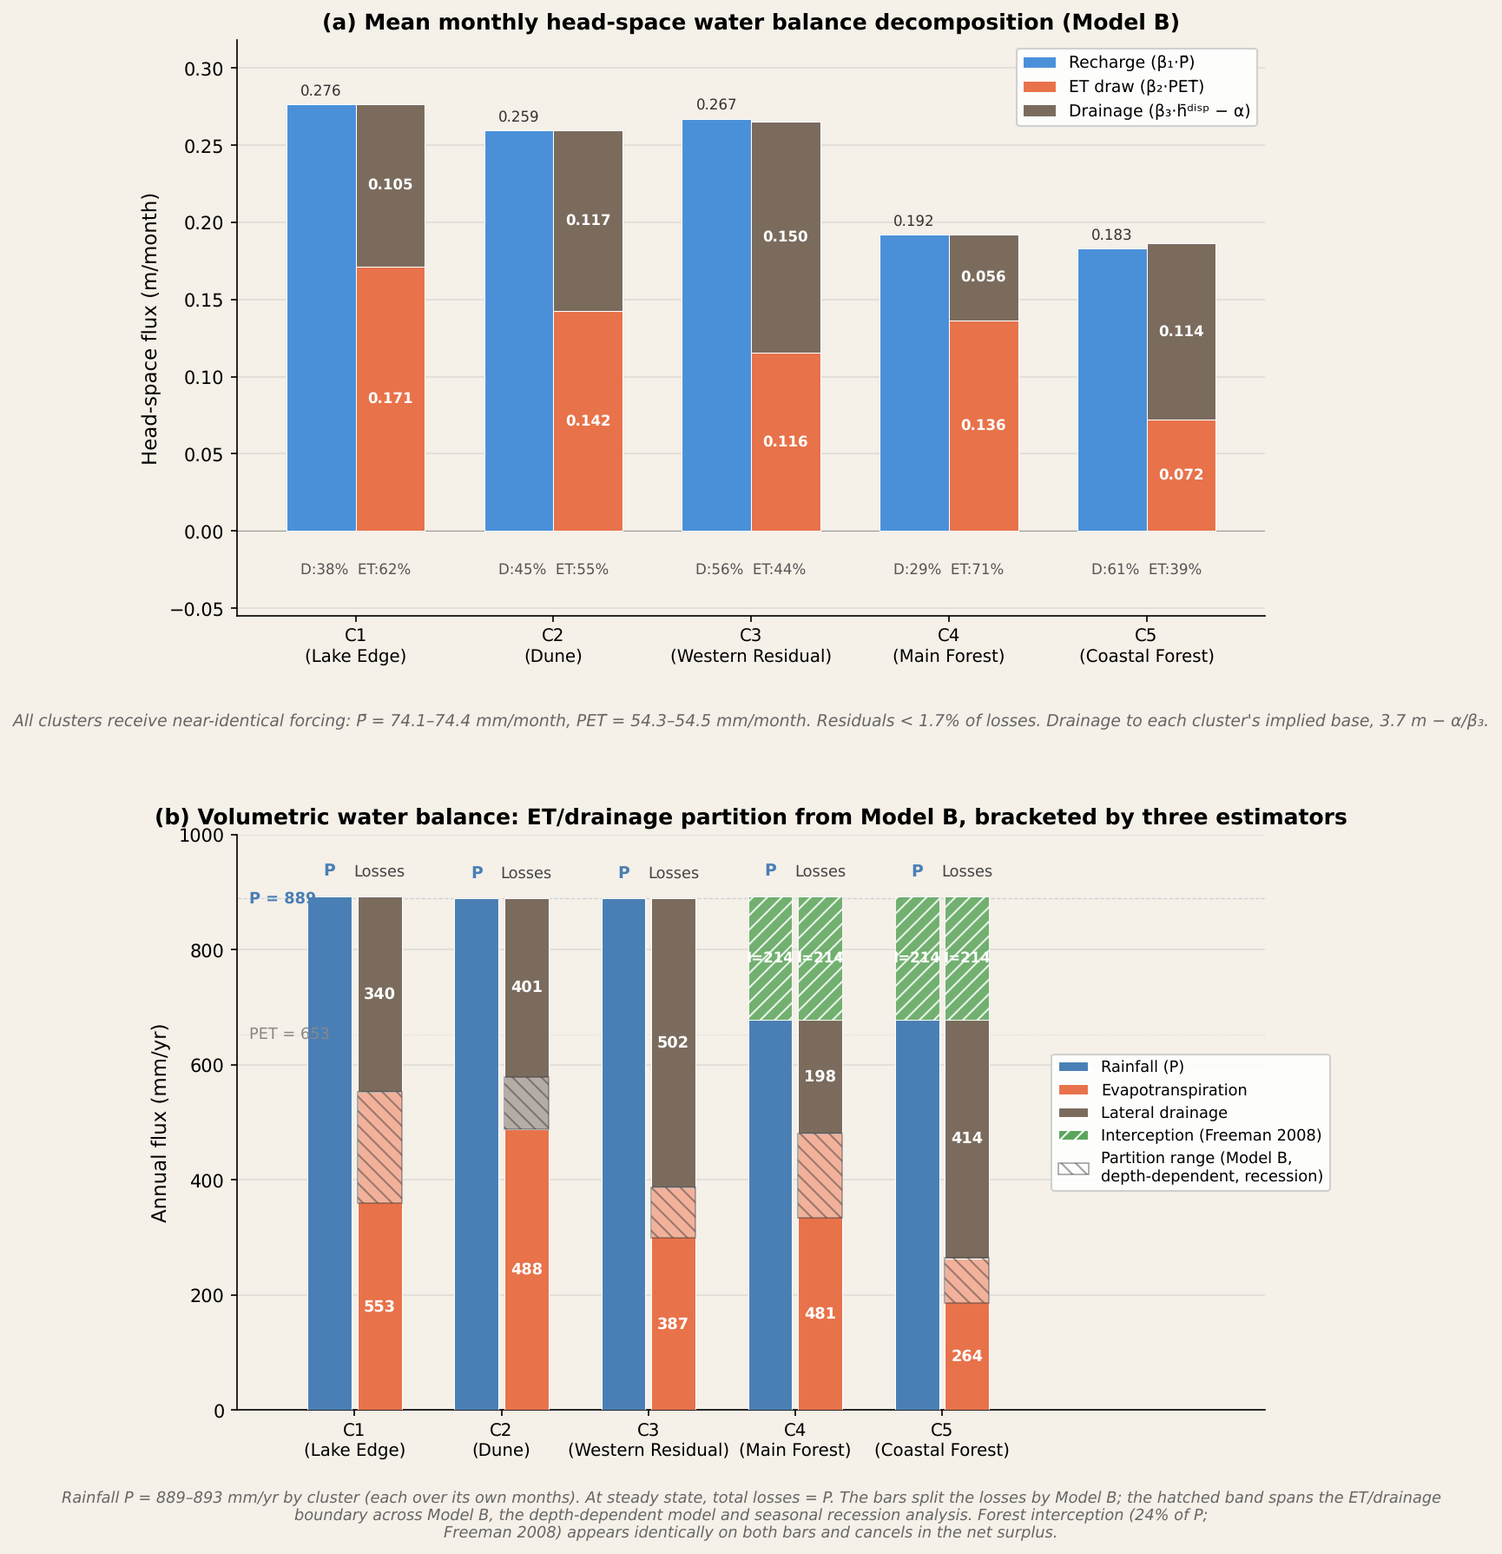
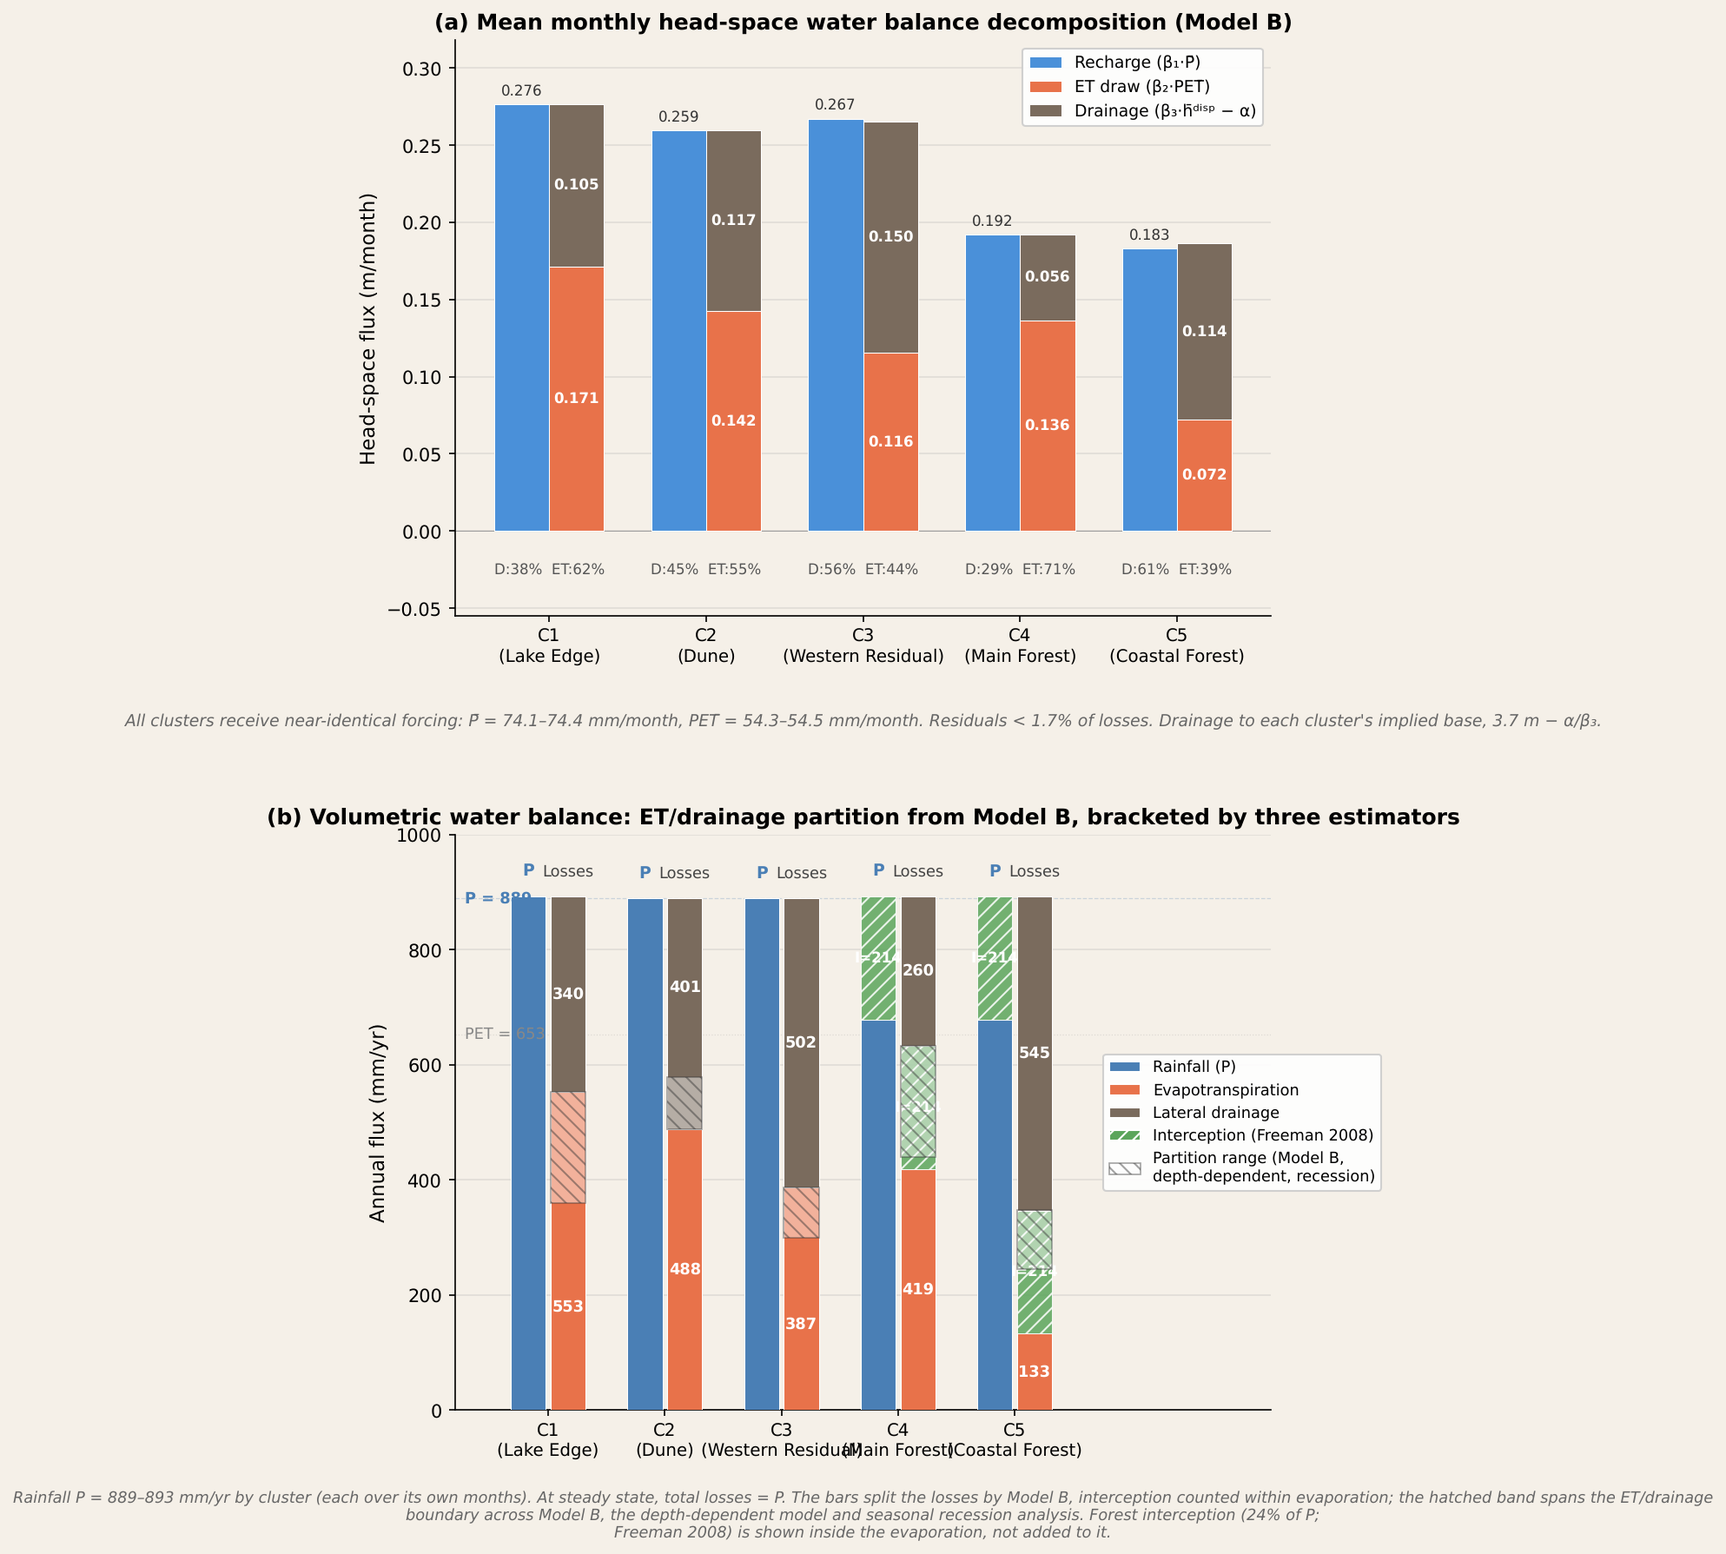
T-213: Script 16 1.15.0 - interception no longer counted twice
Martin 2026-11-17 (review Q3): the SSM is fitted on gross rainfall and above-canopy
PET, so beta_2*PET already carries the canopy's interception loss. The volumetric
split now applies to gross rainfall: drainage = P*df, total evaporation = P*(1-df)
with interception inside it, ET after interception = total - I. C4 total
evaporation 633 mm/yr (0.97 x PET; was 695, 1.06), drainage 260 mm/yr (was 198);
C5 347 / 545 mm/yr. Figure 11b/8b stacks ET, interception, drainage. Script 16 run
on its own; site-observation row left at the last pipeline run.

Claude-Session: https://claude.ai/code/session_0121bgnCsTMi9KH3649kM96F

diff --git a/src/16_water_bal.py b/src/16_water_bal.py
@@ -79,12 +79,18 @@ References:
       for water table depths. WRR 36(1), 181–188.
 """
 
-__version__ = "1.14.0"  # Hollingham (2026) - 2026-11-17 (D-334, T-213; Martin: "drop the Model A column", "do it now").
+__version__ = "1.15.0"  # Hollingham (2026) - 2026-11-17 (T-213 review Q3; Martin: "Fix Script 16"). The SSM is fitted on
+#   gross rainfall and above-canopy PET, so beta_2*PET already carries the canopy's interception loss. The volumetric
+#   split now applies to GROSS rainfall: Drain = P*df, ET_total = P*(1-df) with interception inside it, ET (after
+#   interception) = ET_total - I. Until 1.14.0 the split was applied to P_net and I added on top, counting the canopy
+#   loss twice (C4 total evaporation 695 mm/yr, 1.06 x PET; now 633 mm/yr, 0.97 x PET). Figure panel (b) stacks
+#   ET, I, drainage. Column and key names unchanged.
+__version_prev__ = "1.14.0"  # Hollingham (2026) - 2026-11-17 (D-334, T-213; Martin: "drop the Model A column", "do it now").
 #   The partition range (Lo/Hi_drain_frac, Spread_pp, the report keys *_lo/_hi, the hatched band of Figure 11b) spans
 #   Model B, the depth-dependent model and the recession ratio; Model A's fraction stays in SSM_drain_frac and the
 #   *_A_pct keys as the robustness record but no longer widens the range. The figure drops the Model A datum bracket;
 #   the recession table keeps its datum columns. Table 5 (table_configs) now shows the Model B columns.
-__version_prev__ = "1.13.0"  # Hollingham (2026) - 2026-11-12 (D-332, J-9 phase 2b). Script 03 1.31.0 writes Model B in
+# 1.13.0  # Hollingham (2026) - 2026-11-12 (D-332, J-9 phase 2b). Script 03 1.31.0 writes Model B in
 #   03_03's headline columns, so the Model A bracket now reads the *_model_a columns (beta_*_model_a, LCSC_percent_model_a;
 #   values unchanged) and Model B, the headline, is read from 03_03 itself (alpha, beta_*, implied_datum_m) in place of
 #   03_16 (the same centroid fit): its drainage is beta_3 * (h + implied_datum_m) = beta_3 * (DRAINAGE_DATUM + h) - alpha,
@@ -545,6 +551,12 @@ def save_volumetric_table(summary, recession, path, site_P_m, site_PET_m, ddp=No
         # (until 1.11.0 the midpoint of Model A and the recession ratio, and the range between them)
         pe = partition_estimates(s, r, (ddp or {}).get(cid, np.nan))
         df_mid, df_lo, df_hi = pe["mid"], pe["lo"], pe["hi"]
+        # 1.15.0 (Martin 2026-11-17, review Q3): the SSM is fitted on gross rainfall and above-canopy PET, so
+        # beta_2*PET already carries the canopy's interception loss (Paper 1 SI S9.2). The split therefore
+        # applies to GROSS rainfall: drainage = P*df, total evaporation = P*(1-df), and interception is a part
+        # of that total, not an addition to it. Until 1.14.0 the split was applied to P_net and I added on top,
+        # which counted the canopy loss twice (C4 total evaporation 1.06 x PET).
+        Pg = P_annual
 
         rows.append({
             "Cluster": cid,
@@ -563,21 +575,21 @@ def save_volumetric_table(summary, recession, path, site_P_m, site_PET_m, ddp=No
             "Mid_drain_frac": df_mid,
             "Lo_drain_frac": df_lo,
             "Hi_drain_frac": df_hi,
-            "ET_mid_mm_yr": P_net * (1 - df_mid),
-            "ET_lo_mm_yr": P_net * (1 - df_hi),
-            "ET_hi_mm_yr": P_net * (1 - df_lo),
-            "Drain_mid_mm_yr": P_net * df_mid,
-            "Drain_lo_mm_yr": P_net * df_lo,
-            "Drain_hi_mm_yr": P_net * df_hi,
-            # 1.10.0: interception is itself evaporation, so a forest's whole loss is I + ET
-            "ET_total_mid_mm_yr": I_val + P_net * (1 - df_mid),
-            "ET_total_lo_mm_yr": I_val + P_net * (1 - df_hi),
-            "ET_total_hi_mm_yr": I_val + P_net * (1 - df_lo),
+            # ET = evaporation after interception (from throughfall and the water table); ET_total = I + ET
+            "ET_mid_mm_yr": Pg * (1 - df_mid) - I_val,
+            "ET_lo_mm_yr": Pg * (1 - df_hi) - I_val,
+            "ET_hi_mm_yr": Pg * (1 - df_lo) - I_val,
+            "Drain_mid_mm_yr": Pg * df_mid,
+            "Drain_lo_mm_yr": Pg * df_lo,
+            "Drain_hi_mm_yr": Pg * df_hi,
+            "ET_total_mid_mm_yr": Pg * (1 - df_mid),
+            "ET_total_lo_mm_yr": Pg * (1 - df_hi),
+            "ET_total_hi_mm_yr": Pg * (1 - df_lo),
             # 1.11.0: the third estimator, additive - not in Mid/lo/hi
             "DDP_drain_frac": (ddp or {}).get(cid, np.nan),
             "DDP_ET_frac": 1.0 - (ddp or {}).get(cid, np.nan),
-            "DDP_drain_mm_yr": P_net * (ddp or {}).get(cid, np.nan),
-            "DDP_ET_mm_yr": P_net * (1.0 - (ddp or {}).get(cid, np.nan)),
+            "DDP_drain_mm_yr": Pg * (ddp or {}).get(cid, np.nan),
+            "DDP_ET_mm_yr": Pg * (1.0 - (ddp or {}).get(cid, np.nan)),
         })
 
     pd.DataFrame(rows).to_csv(path, index=False, float_format="%.4f")   # 1.12.0: fractions need more than 1 dp
@@ -804,10 +816,12 @@ def make_figure(summary, recession, site_P_m, site_PET_m, ms=True, datum_range=N
         pe = partition_estimates(summary[cid], recession.get(cid, {}), (ddp or {}).get(cid, np.nan))
         df_lo, df_hi, df_mid = pe["lo"], pe["hi"], pe["mid"]
 
-        et_mid    = P_net * (1 - df_mid)
-        drain_mid = P_net * df_mid
-        et_lo     = P_net * (1 - df_hi)    # boundary lowest (most drainage)
-        et_hi     = P_net * (1 - df_lo)    # boundary highest (most ET)
+        # 1.15.0: the split is of GROSS rainfall; the loss bar stacks ET after interception, then
+        # interception (part of the evaporation), then drainage, and sums to P
+        et_mid    = P_annual * (1 - df_mid) - I_val      # evaporation after interception
+        drain_mid = P_annual * df_mid
+        et_lo     = P_annual * (1 - df_hi)    # ET/drainage boundary, lowest (most drainage)
+        et_hi     = P_annual * (1 - df_lo)    # boundary highest (most ET)
 
         x_p = i - width_p/2 - gap/2
         x_l = i + width_loss/2 + gap/2
@@ -822,18 +836,18 @@ def make_figure(summary, recession, site_P_m, site_PET_m, ms=True, datum_range=N
                     linewidth=0.5, zorder=3,
                     hatch=H_INTCP if BW_MODE else '///', alpha=0.85)
 
-        # LOSS bar: ET (bottom) + Drainage (top) + Interception (top)
+        # LOSS bar: ET after interception (bottom) + interception + drainage (top) = P
         ax2.bar(x_l, et_mid, width_loss, color=C_ET,
                 edgecolor="black" if BW_MODE else "white",
                 linewidth=0.5, zorder=3, hatch=H_ET)
-        ax2.bar(x_l, drain_mid, width_loss, bottom=et_mid, color=C_DRAIN,
-                edgecolor="black" if BW_MODE else "white",
-                linewidth=0.5, zorder=3, hatch=H_DRAIN)
         if is_forest:
-            ax2.bar(x_l, I_val, width_loss, bottom=P_net, color=C_INTCP,
+            ax2.bar(x_l, I_val, width_loss, bottom=et_mid, color=C_INTCP,
                     edgecolor="black" if BW_MODE else "white",
                     linewidth=0.5, zorder=3,
                     hatch=H_INTCP if BW_MODE else '///', alpha=0.85)
+        ax2.bar(x_l, drain_mid, width_loss, bottom=et_mid + I_val, color=C_DRAIN,
+                edgecolor="black" if BW_MODE else "white",
+                linewidth=0.5, zorder=3, hatch=H_DRAIN)
 
         # Uncertainty band: hatched rectangle at ET/drainage boundary
         band_bottom = et_lo
@@ -858,25 +872,25 @@ def make_figure(summary, recession, site_P_m, site_PET_m, ms=True, datum_range=N
             ax2.plot([xb - 0.02, xb + 0.02], [y_b, y_b], color="black", lw=1.1, zorder=6)
 
         # Value labels
-        et_label_y = et_lo / 2 if et_lo > 100 else et_mid / 2
+        et_label_y = min(et_mid, et_lo) / 2 if min(et_mid, et_lo) > 100 else et_mid / 2
         if et_mid > 120:
             ax2.text(x_l, et_label_y, f'{et_mid:.0f}', ha='center', va='center',
                      fontsize=8.5, color='white', fontweight='bold', zorder=5)
-        drain_label_y = (et_hi + (P_net - et_hi) / 2 if (P_net - et_hi) > 100
-                         else et_mid + drain_mid / 2)
+        drain_label_y = (et_hi + (P_annual - et_hi) / 2 if (P_annual - et_hi) > 100
+                         else et_mid + I_val + drain_mid / 2)
         if drain_mid > 120:
             ax2.text(x_l, drain_label_y, f'{drain_mid:.0f}', ha='center',
                      va='center', fontsize=8.5, color='white', fontweight='bold',
                      zorder=5)
         elif drain_mid > 50:
-            ax2.text(x_l, et_mid + drain_mid/2, f'{drain_mid:.0f}', ha='center',
+            ax2.text(x_l, et_mid + I_val + drain_mid/2, f'{drain_mid:.0f}', ha='center',
                      va='center', fontsize=8, color='white', zorder=5)
 
         # Interception labels
         if is_forest:
             ax2.text(x_p, P_net + I_val/2, f'I={I_val:.0f}', ha='center',
                      va='center', fontsize=8, color='white', fontweight='bold')
-            ax2.text(x_l, P_net + I_val/2, f'I={I_val:.0f}', ha='center',
+            ax2.text(x_l, et_mid + I_val/2, f'I={I_val:.0f}', ha='center',
                      va='center', fontsize=8, color='white', fontweight='bold')
 
         # Column headers
@@ -930,10 +944,10 @@ def make_figure(summary, recession, site_P_m, site_PET_m, ms=True, datum_range=N
     ax2.text(0.5, -0.14,
              f"Rainfall P = {min(P_by_cid.values()):.0f}–{max(P_by_cid.values()):.0f} mm/yr by cluster "
              f"(each over its own months). At steady state, "
-             f"total losses = P. The bars split the losses by Model B; the hatched band spans the ET/drainage\nboundary "
+             f"total losses = P. The bars split the losses by Model B, interception counted within evaporation; the hatched band spans the ET/drainage\nboundary "
              f"across Model B, the depth-dependent model and seasonal recession analysis. "
              f"Forest interception ({I_pct}% of P;\nFreeman 2008) "
-             f"appears identically on both bars and cancels in the net surplus.",
+             f"is shown inside the evaporation, not added to it.",
              transform=ax2.transAxes, ha='center', va='top', fontsize=8.5,
              color='#666', style='italic')
 
@@ -1004,7 +1018,7 @@ def save_report_numbers(summary, path, recession=None, ddp=None, excluded_datum=
            note=f"Model A at DRAINAGE_DATUM: largest per-cluster residual as a share of total losses ({worst_a[0]})")
     # 1.12.0 (D-283): the partition as quoted. Model B's drainage share of the modelled loss is the
     # headline; the range spans Model A, Model B, the depth-dependent model and the recession ratio.
-    # Volumes are on the rain left after interception (FOREST_INTERCEPTION of P at C4, C5), as Table 7.
+    # 1.15.0: volumes split GROSS rainfall; interception (FOREST_INTERCEPTION of P at C4, C5) is part of the evaporation.
     recession = recession or {}
     for cid in sorted(summary.keys()):
         s = summary[cid]
@@ -1020,22 +1034,22 @@ def save_report_numbers(summary, path, recession=None, ddp=None, excluded_datum=
             ("water_balance_et_share_pct", 100 * (1 - pe["mid"]), "%",
              "evaporation share of the modelled loss, the headline (Model B, D-283)"),
             ("water_balance_drain_share_lo_pct", 100 * pe["lo"], "%",
-             "lowest drainage share of the four estimators (Model A, Model B, depth-dependent, recession)"),
+             "lowest drainage share of the three estimators (Model B, depth-dependent, recession; D-334)"),
             ("water_balance_drain_share_hi_pct", 100 * pe["hi"], "%",
-             "highest drainage share of the four estimators (Model A, Model B, depth-dependent, recession)"),
+             "highest drainage share of the three estimators (Model B, depth-dependent, recession; D-334)"),
             ("water_balance_drain_share_A_pct", 100 * pe["est"]["A"], "%",
              "drainage share of the modelled loss under Model A at DRAINAGE_DATUM (bracket)"),
             ("water_balance_drain_share_B_pct", 100 * pe["est"]["B"], "%",
              "drainage share of the modelled loss under Model B (the headline)"),
-            ("water_balance_drain_mm_yr", Pn * pe["mid"], "mm/yr",
-             "drainage, headline share of the rain left after interception (Table 7 Drain_mid_mm_yr)"),
-            ("water_balance_et_wt_mm_yr", Pn * (1 - pe["mid"]), "mm/yr",
-             "evaporation after interception, headline share (Table 7 ET_mid_mm_yr)"),
+            ("water_balance_drain_mm_yr", P_yr * pe["mid"], "mm/yr",
+             "drainage, headline share of gross rainfall (Table 7 Drain_mid_mm_yr; 1.15.0)"),
+            ("water_balance_et_wt_mm_yr", P_yr * (1 - pe["mid"]) - I_yr, "mm/yr",
+             "evaporation after interception: the headline evaporation share of gross rainfall less I (Table 7 ET_mid_mm_yr)"),
             ("water_balance_interception_mm_yr", I_yr, "mm/yr",
              "canopy interception, FOREST_INTERCEPTION of P at the forest clusters, else 0"),
-            ("water_balance_et_total_mm_yr", I_yr + Pn * (1 - pe["mid"]), "mm/yr",
-             "total evaporation: interception plus the headline evaporation (Table 7 ET_total_mid_mm_yr)"),
-            ("water_balance_et_total_over_pet", (I_yr + Pn * (1 - pe["mid"])) / PET_yr, "ratio",
+            ("water_balance_et_total_mm_yr", P_yr * (1 - pe["mid"]), "mm/yr",
+             "total evaporation, interception included: the headline evaporation share of gross rainfall (Table 7 ET_total_mid_mm_yr)"),
+            ("water_balance_et_total_over_pet", P_yr * (1 - pe["mid"]) / PET_yr, "ratio",
              "total evaporation over Thornthwaite PET over the cluster's months"),
             ("water_balance_residual_B_pct", 100 * abs(s["residual_B"]) / s["total_loss_B"]
              if s["total_loss_B"] and s["total_loss_B"] > 0 else np.nan, "%",

diff --git a/notes/ledgers/SCRIPT_LEDGER.md b/notes/ledgers/SCRIPT_LEDGER.md
@@ -147,7 +147,7 @@ the row's adjudication says so.
 | 14 | 14_climate_projections.py | 1.14.1 | 01_climate.csv, 01_wells_reference.csv (fixed-effects cluster series, D-202), 00_02_well_network_summary.csv, 02_cluster_stats.csv | 14_annual_extremes.csv, 14_spring/summer/winter_trend_stats.csv, 14_report_numbers.csv (summer_order_* 1.13.0; the D-294 per-well banding, the winter exceedance and the cluster-versus-community numbers retired in 1.14.0, D-296) | 14_climate_trajectory_spring/summer/stacked/winter_flooding.png + 14_seasonal_extremes_scatter.html | MS,SM | **OK** |
 | 14b | 14b_year_of_crossing.py | 3.0.0 | 14_annual_extremes.csv (on demand only, `--step 14b`; withdrawn from the report, D-296; 3.0.0 restores the 1.2.1 cluster bootstrap) | 14b_year_of_crossing.csv, 14b_year_of_crossing_results.md (written only on demand; not committed, .gitignore) | 14b_year_of_crossing.png (on demand) | MS | **OK** |
 | 15 | 15_depth_dependent_pet.py | 1.10.1 | 01_climate.csv, 01_locations.csv, 01_wells_clean.csv, 02_cluster_stats.csv, 03_21_dry_member_fill.csv (1.10.0, D-281: the dry-month fill, via model_utils.apply_dry_fill) | 15_03_benchmark_table.csv, 15_04_best_params.csv, 15_00_lambda_profiles_raw.csv, 15_report_numbers.csv | 15_01_lambda_profile.png, 15_02_fit_comparison.png | MS,SM | **OK** |
-| 16 | 16_water_bal.py | 1.14.0 | 03_03_cluster_mechanistic_coefficients.csv, 03_regional_averages.csv, 03_16_model_b_persistence.csv (1.12.0, D-283: Model B centroid coefficients, the headline partition) | 16_water_bal_table.csv, 16_water_bal_vol_table.csv, 16_water_bal_rec_table.csv, 16_report_numbers.csv | 16_water_bal_bar_ms.png, 16_water_bal_bar_lay.png | MS | **OK** |
+| 16 | 16_water_bal.py | 1.15.0 | 03_03_cluster_mechanistic_coefficients.csv, 03_regional_averages.csv, 03_16_model_b_persistence.csv (1.12.0, D-283: Model B centroid coefficients, the headline partition) | 16_water_bal_table.csv, 16_water_bal_vol_table.csv, 16_water_bal_rec_table.csv, 16_report_numbers.csv | 16_water_bal_bar_ms.png, 16_water_bal_bar_lay.png | MS | **OK** |
 | 17 | 17_wtf_specific_yield.py | 1.9.1 | 01_climate.csv, 03_master_data.csv (β₃, guarded), 03_regional_averages.csv | 17_wtf_01_sy_estimates.csv, 17_wtf_04_summary.txt, 17_wtf_06_interception_sweep.csv, 17_report_numbers.csv (T-96 batch 2) | 17_wtf_02_regression.png, 17_wtf_03_event_boxplot.png, 17_wtf_05_rapid_events.png | MS | **OK** |
 | 18 | 18_wtf_spatial.py | 1.19.1 | 03_19_per_well_recession_full_record.csv (D-192; 03_master_data.csv under comparison_window, and for the C4/CEH13 window keys), 06_pear_…, 08_lcsc_model_stats.csv (+01/02) | 18_wtf_01_well_sy_estimates.csv (the per-well table; the `17_wtf_well_sy.csv` legacy prefix was RETIRED 2026-08-19, D-038, and is no longer written), 18_wtf_05_storage_drainage_index.csv, 18_wtf_07_sy_spatial_trends.csv, 18_wtf_08_cluster_half_life_summary.csv, 18_wtf_06_well_sy_by_window.csv (per-well Sy either side of MODEL_AB_SPLIT_DATE, 1.19.0, D8 — for Script 55's split-sample test, which may not borrow a full-record Sy), 18_report_numbers.csv | 18_wtf_02_spatial_sy_map.png, 18_wtf_03/04_sy_contour*.png, 18_wtf_05_halflife_map.png, 18_wtf_06_aquifer_diagnostic_synthesis.png | MS | **OK** |
 | 19 | 19_spatial_groundwater.py | 2.32.1 | 03_16_model_b_persistence.csv (Model B β — UKCP18 level rows, D-216), 03_03_cluster_mechanistic_coefficients.csv (Model A centroids for extended wells, D-224), 01_climate.csv, 01_locations.csv, 01_well_elevations.csv, 01_wells_clean_maod.csv, 02_cluster_stats.csv, 03_master_data.csv (window-basis β), 03_15_per_well_window_sensitivity.csv (full-record β — viewer basis toggle, D-034), 18_wtf_01_well_sy_estimates.csv (per-well Sy), 26b_msl5_ukcp18_projection_summary_perwell.csv (ΔMSL5 cross-check), 10e_01_coefficient_shifts.csv (helper-read), living/wet_area_model.json (wet-area curves, T-38), 01b_report_numbers.csv, 01b_01_drift_selection.csv, 01b_02_loo_per_well.csv, 01b_12_boundary_anchors.csv, 01b_water_table_mean.tif (the check) and 01_wells_all.csv via utils/water_table.recorded_system (the viewer's kriging operator, D-205), (KML/DEM) | 19_scenario_summary.csv, 19_scenario_perwell.csv (+we_mean_mm, we_median_mm, sy_mean at 2.15.0), 19_scenario_summary_model_a.csv, 19_scenario_perwell_model_a.csv (D-224), scenario_viewer.html (Response toggle: sustained Model B / Model A / one-month, 2.29.0), 19_report_numbers.csv | — | MS,SM | **OK** |
